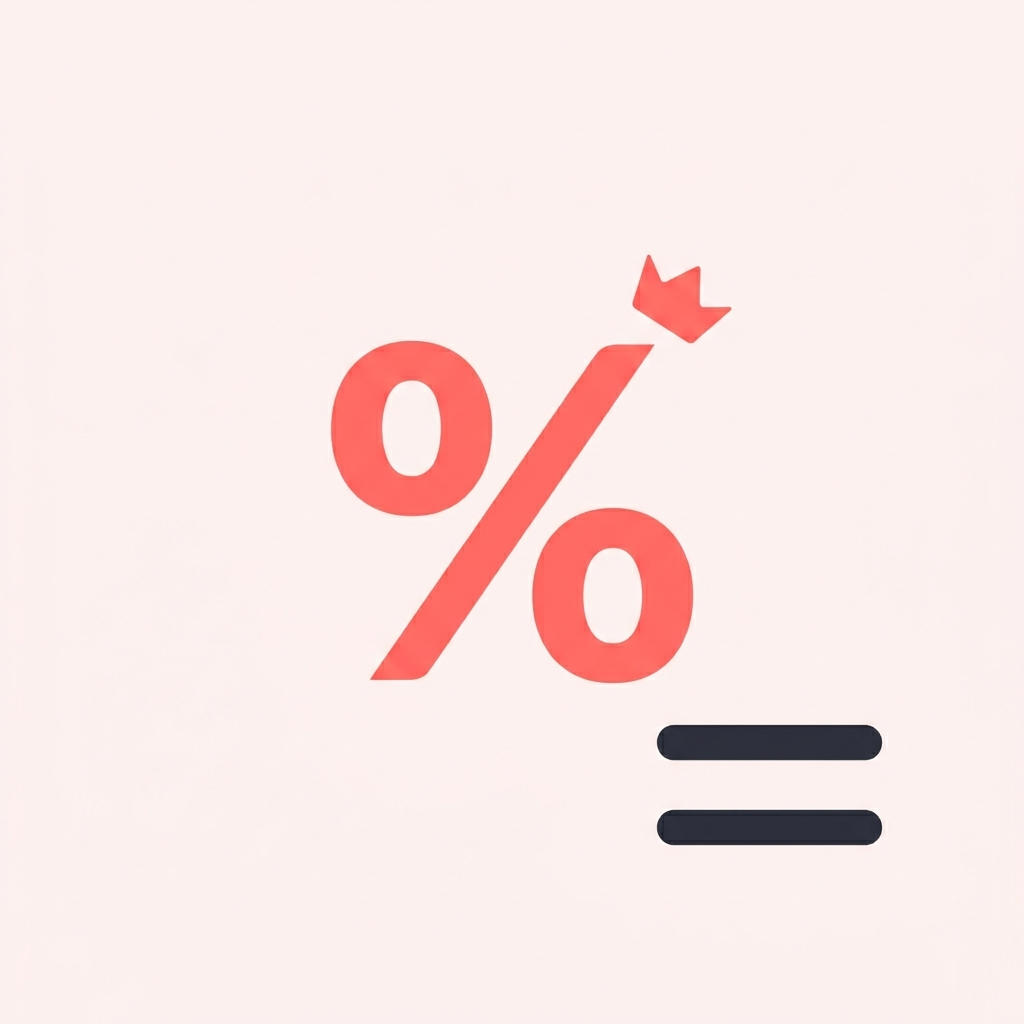
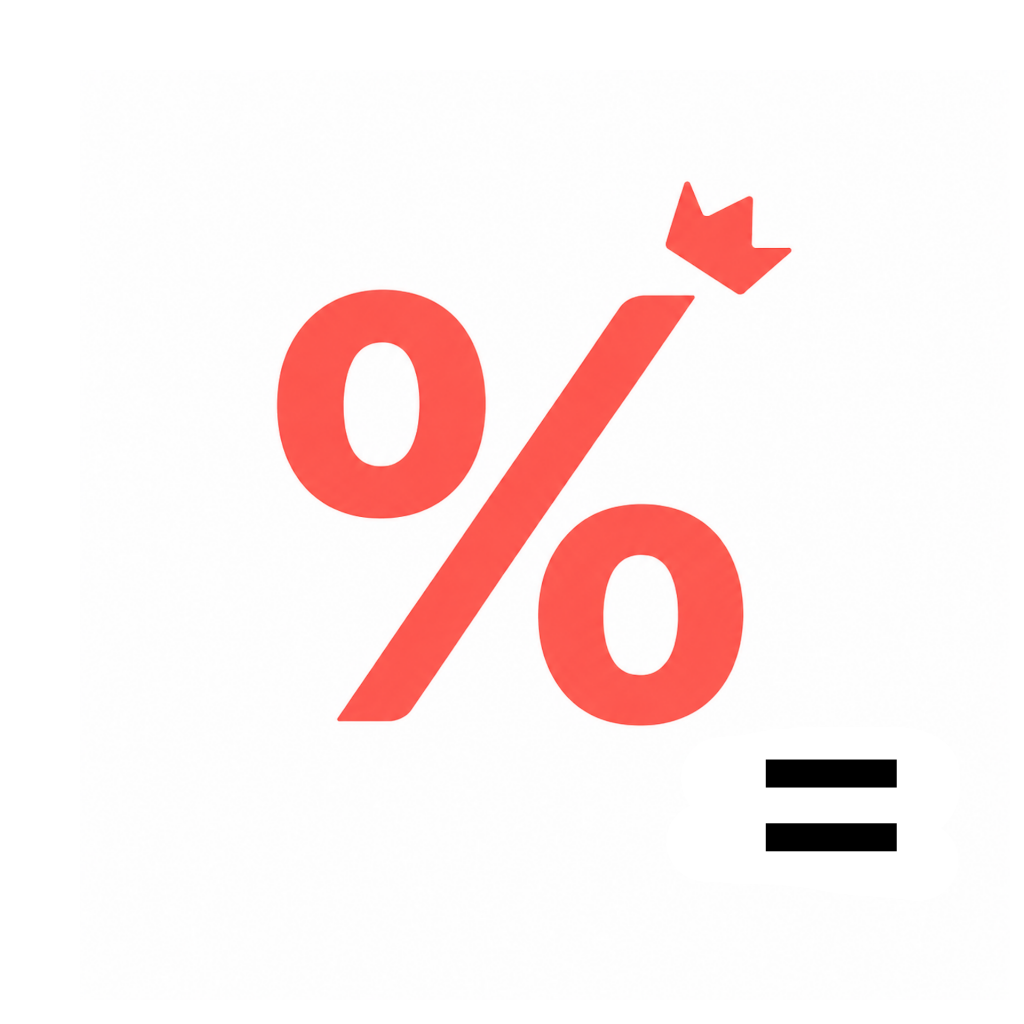
sync(ProfitFairy): align five-locale listing with App Store 9.1.4
Update name, subtitle, card description, and app icon for solo and small-team positioning across zh-tw, zh-cn, en, ja, and ko.

diff --git a/content/home.js b/content/home.js
@@ -26,10 +26,10 @@ module.exports = {
     stat3_txt: "大洲足跡",
     apps_title: "原創應用",
     sticker_title: "iMessage 貼圖",
-    pf_title: "ProfitFairy 成本毛利率利潤試算",
-    pf_sub: "售價與費用結構分析，賣家專用工具",
+    pf_title: "ProfitFairy 毛利率和定價計算機",
+    pf_sub: "成本、售價、折扣、平台費與淨利試算",
     pf_desc:
-      "輸入成本、售價或毛利率，立刻得到最終價格、毛利與毛利率。三欄試算自動連動，支援折扣、平台手續費、含稅與運費等進階參數。內建成本分析頁可產出可分享的毛利結構長圖，歷史紀錄完整保存與批次管理。依裝置地區自動採用熟悉的全球數字格式，涵蓋 12,345.67 等常見寫法。五語系介面，每一筆都算得清楚。",
+      "給一個人或兩三人小團隊的定價決策工具。報價前先看清真實毛利，把成本、售價、折扣、平台費、運費與稅務收進同一張全景圖。三欄聯動試算，支援正向與逆向定價。內建成本分析與高清長圖匯出，歷史紀錄完整保存。依裝置地區採用熟悉的數字格式，例如\u00A012,345.67。五語系介面，攤商、店面、接案與小團隊都能用。",
     ruby_title: "小主私密日記 · 老中醫月經養生週期手札",
     ruby_sub: "記錄每一天，溫柔看懂自己的節奏",
     ruby_desc:
@@ -107,10 +107,10 @@ module.exports = {
     stat3_txt: "大洲足迹",
     apps_title: "原创应用",
     sticker_title: "iMessage 贴图",
-    pf_title: "ProfitFairy 成本毛利率利润试算",
-    pf_sub: "售价与费用结构分析，卖家专用工具",
+    pf_title: "ProfitFairy 毛利率和定价计算器",
+    pf_sub: "成本、售价、折扣、平台费与净利润试算",
     pf_desc:
-      "输入成本、售价或毛利率，立刻得到最终价格、毛利与毛利率。三栏试算自动联动，支持折扣、平台手续费、含税与运费等进阶参数。内置成本分析页可产出可分享的毛利结构长图，历史记录完整保存与批次管理。依装置地区自动采用熟悉的全球数字格式，涵盖 12,345.67 等常见写法。五语系界面，每一笔都算得清楚。",
+      "给一个人或两三个人小团队的定价决策工具。报价前先看清真实毛利，把成本、售价、折扣、平台费、运费与税务收进同一张全景图。三栏联动试算，支持正向与逆向定价。内置成本分析与高清长图导出，历史记录完整保存。依装置地区采用熟悉的数字格式，例如\u00A012,345.67。五语系界面，摊商、店面、接案与小团队都能用。",
     ruby_title: "小主私密日记 · 老中医月经养生周期手札",
     ruby_sub: "记录每一天，温柔看懂自己的节奏",
     ruby_desc:
@@ -188,10 +188,10 @@ module.exports = {
     stat3_txt: "Continents",
     apps_title: "Original Apps",
     sticker_title: "iMessage Stickers",
-    pf_title: "ProfitFairy Cost Margin Calc",
-    pf_sub: "Price and fee structure tool",
+    pf_title: "ProfitFairy Margin Calculator",
+    pf_sub: "Cost, Price, Fees and Profit",
     pf_desc:
-      "Enter cost, sale price, or target margin to see final price, profit, and margin instantly. Three linked fields with advanced options for discounts, platform fees, tax, and shipping. Built-in cost analysis exports shareable breakdown images; full history with sort, filter, and batch actions. Follows your device region for global number formats such as 12,345.67. Available in five languages.",
+      "A pricing decision tool for one person or a tiny team of two or three. See real margin before you quote, with cost, price, discounts, platform fees, shipping, and tax in one picture. Three linked fields support forward and reverse pricing. Cost analysis exports shareable long images, with full history saved. Follows your device region for formats such as\u00A012,345.67. Five languages. Built for stalls, storefronts, freelancers, and small teams.",
     ruby_title: "RubyDays · Classical Menstrual Wellness Journal",
     ruby_sub: "Record each day. Gently understand your rhythm.",
     ruby_desc:
@@ -269,10 +269,10 @@ module.exports = {
     stat3_txt: "大陸の足跡",
     apps_title: "オリジナルアプリ",
     sticker_title: "iMessage ステッカー",
-    pf_title: "ProfitFairy 原価粗利率利益試算",
-    pf_sub: "売価と費用構成の連動分析ツール",
+    pf_title: "ProfitFairy 粗利率と価格設定計算機",
+    pf_sub: "原価、販売価格、割引、手数料、純利益を計算",
     pf_desc:
-      "原価、販売価格、利益率のいずれかを入力するだけで、最終価格、粗利、利益率を即表示。3項目連動計算と割引、手数料、税、送料などの高度な設定に対応。原価分析ページから共有可能な粗利内訳長画像を出力。履歴の保存、並べ替え、一括管理も可能。端末の地域設定に合わせた数字表記に対応し、12,345.67 などの表記もそのまま利用できます。5言語対応。",
+      "ひとり起業や少人数チームのための定価意思決定ツール。見積前に本当の粗利を確認し、原価、販売価格、割引、手数料、送料、税金を一つの全景図にまとめます。3項目連動で順方向と逆算に対応。原価分析と高精細な縦長画像の書き出し、履歴保存も可能。端末の地域設定に合わせた数字表記に対応し、例えば\u00A012,345.67。5言語対応。屋台、店舗、フリーランス、小規模チーム向け。",
     ruby_title: "小主私密日記 · 古典養生の月経周期手帳",
     ruby_sub: "毎日を記録し、自分のリズムをやさしく読み解く",
     ruby_desc:
@@ -350,10 +350,10 @@ module.exports = {
     stat3_txt: "대륙 발자취",
     apps_title: "오리지널 앱",
     sticker_title: "iMessage 스티커",
-    pf_title: "ProfitFairy 원가마진수익 분석기",
-    pf_sub: "판매가와 비용 구조 연동 분석",
+    pf_title: "ProfitFairy 마진율 및 가격 계산기",
+    pf_sub: "원가, 판매가, 할인, 수수료, 순이익 계산",
     pf_desc:
-      "원가, 판매가, 목표 마진 중 하나만 입력하면 최종 가격, 이익, 이익률을 즉시 확인할 수 있습니다. 3항목 연동 계산과 할인, 수수료, 세금, 배송비 등 고급 옵션을 지원합니다. 원가 분석 페이지에서 공유 가능한 마진 내역 긴 이미지를 출력하고, 기록 저장과 일괄 관리도 가능합니다. 기기 지역 설정에 맞는 숫자 표기를 지원하며 12,345.67 같은 형식도 그대로 사용할 수 있습니다. 5개 언어 지원.",
+      "1인 창업자와 2~3명 소규모 팀을 위한 가격 결정 도구입니다. 견적 전에 실제 마진을 확인하고, 원가, 판매가, 할인, 플랫폼 수수료, 배송비, 세금을 한눈에 모읍니다. 3항목 연동으로 정방향과 역산을 지원합니다. 원가 분석과 고화질 세로 이미지 내보내기, 기록 저장도 가능합니다. 기기 지역에 맞는 숫자 표기를 지원하며 예를 들어\u00A012,345.67. 5개 언어. 노점, 매장, 프리랜서, 소규모 팀에 적합합니다.",
     ruby_title: "小主私密日記 · 전통 양생 생리 주기 수첩",
     ruby_sub: "매일을 기록하고, 나만의 리듬을 부드럽게 읽어가세요",
     ruby_desc:

diff --git a/ko/index.html b/ko/index.html
@@ -435,7 +435,7 @@ footer { text-align: center; padding: 24px 0 40px; font-size: 0.7rem; color: #6a
             <h2>오리지널 앱</h2>
         </div>
         <div class="grid-3">
-            <div class="work-card"><div class="card-media"><img class="app-icon" src="/images/ProfitFairy_icon.png" alt="ProfitFairy"></div><div class="card-info"><div class="work-title">ProfitFairy 원가마진수익 분석기</div><div class="work-sub">판매가와 비용 구조 연동 분석</div><div class="work-desc">원가, 판매가, 목표 마진 중 하나만 입력하면 최종 가격, 이익, 이익률을 즉시 확인할 수 있습니다. 3항목 연동 계산과 할인, 수수료, 세금, 배송비 등 고급 옵션을 지원합니다. 원가 분석 페이지에서 공유 가능한 마진 내역 긴 이미지를 출력하고, 기록 저장과 일괄 관리도 가능합니다. 기기 지역 설정에 맞는 숫자 표기를 지원하며 12,345.67 같은 형식도 그대로 사용할 수 있습니다. 5개 언어 지원.</div><div class="store-badge"><a href="https://apps.apple.com/app/id6740332215" target="_blank" rel="noopener"><img src="/images/Download_on_the_App_Store_Badge.png" alt="App Store"></a></div></div></div>
+            <div class="work-card"><div class="card-media"><img class="app-icon" src="/images/ProfitFairy_icon.png" alt="ProfitFairy"></div><div class="card-info"><div class="work-title">ProfitFairy 마진율 및 가격 계산기</div><div class="work-sub">원가, 판매가, 할인, 수수료, 순이익 계산</div><div class="work-desc">1인 창업자와 2~3명 소규모 팀을 위한 가격 결정 도구입니다. 견적 전에 실제 마진을 확인하고, 원가, 판매가, 할인, 플랫폼 수수료, 배송비, 세금을 한눈에 모읍니다. 3항목 연동으로 정방향과 역산을 지원합니다. 원가 분석과 고화질 세로 이미지 내보내기, 기록 저장도 가능합니다. 기기 지역에 맞는 숫자 표기를 지원하며 예를 들어 12,345.67. 5개 언어. 노점, 매장, 프리랜서, 소규모 팀에 적합합니다.</div><div class="store-badge"><a href="https://apps.apple.com/app/id6740332215" target="_blank" rel="noopener"><img src="/images/Download_on_the_App_Store_Badge.png" alt="App Store"></a></div></div></div>
             <div class="work-card"><div class="card-media"><img class="app-icon" src="/images/RubyDays_icon.png" alt="RubyDays"></div><div class="card-info"><div class="work-title">小主私密日記 · 전통 양생 생리 주기 수첩</div><div class="work-sub">매일을 기록하고, 나만의 리듬을 부드럽게 읽어가세요</div><div class="work-desc">주기와 임신 준비 달력, 잠금 가능한手札, 주기 단계에 맞춘 양생각 고전 발췌. 생리 기록, 배란과 안전 기간 추정, 차트와 알림으로 계획을 돕습니다. 양생각은 『황제내경』『본초강목』『부청주여과』『침구갑을경』의 요지를 담아, 단계별로 일상, 고전 식문, 마음의 읽을거리를 정리합니다. 데이터는 기기 저장, iCloud 비공개 동기화 선택 가능. 글과 「순간」 사진, Face ID 보호. 고전 발췌는 일상 참고용. 광고 없음.</div><div class="store-badge"><a href="https://apps.apple.com/app/id6752606069" target="_blank" rel="noopener"><img src="/images/Download_on_the_App_Store_Badge.png" alt="App Store"></a></div></div></div>
             <div class="work-card"><div class="card-media"><img class="app-icon" src="/images/AIOS_icon.png?v=9cfe6de2" alt="AIOS Sea"></div><div class="card-info"><div class="work-title">AIOS Sea</div><div class="work-sub">조수를 합치고 여신을 깨우세요</div><div class="work-desc">AIOS Sea를 항해하며 조수 표식을 합치고, 37명의 여신을 깨우며 심연의 기억을 되찾으세요. 클래식 머지, 심연의 기억 미니게임, 여신 법전 도감 수집의 세 가지 입구. 바다 테마의 힐링 비주얼로 짧은 휴식에 적합합니다. Game Center 업적과 일일 퀘스트, 5개 언어 지원으로 지속 업데이트.</div><div class="store-badge"><a href="https://apps.apple.com/app/id6745821288" target="_blank" rel="noopener"><img src="/images/Download_on_the_App_Store_Badge.png" alt="App Store"></a></div></div></div>
         </div>

diff --git a/ja/index.html b/ja/index.html
@@ -435,7 +435,7 @@ footer { text-align: center; padding: 24px 0 40px; font-size: 0.7rem; color: #6a
             <h2>オリジナルアプリ</h2>
         </div>
         <div class="grid-3">
-            <div class="work-card"><div class="card-media"><img class="app-icon" src="/images/ProfitFairy_icon.png" alt="ProfitFairy"></div><div class="card-info"><div class="work-title">ProfitFairy 原価粗利率利益試算</div><div class="work-sub">売価と費用構成の連動分析ツール</div><div class="work-desc">原価、販売価格、利益率のいずれかを入力するだけで、最終価格、粗利、利益率を即表示。3項目連動計算と割引、手数料、税、送料などの高度な設定に対応。原価分析ページから共有可能な粗利内訳長画像を出力。履歴の保存、並べ替え、一括管理も可能。端末の地域設定に合わせた数字表記に対応し、12,345.67 などの表記もそのまま利用できます。5言語対応。</div><div class="store-badge"><a href="https://apps.apple.com/app/id6740332215" target="_blank" rel="noopener"><img src="/images/Download_on_the_App_Store_Badge.png" alt="App Store"></a></div></div></div>
+            <div class="work-card"><div class="card-media"><img class="app-icon" src="/images/ProfitFairy_icon.png" alt="ProfitFairy"></div><div class="card-info"><div class="work-title">ProfitFairy 粗利率と価格設定計算機</div><div class="work-sub">原価、販売価格、割引、手数料、純利益を計算</div><div class="work-desc">ひとり起業や少人数チームのための定価意思決定ツール。見積前に本当の粗利を確認し、原価、販売価格、割引、手数料、送料、税金を一つの全景図にまとめます。3項目連動で順方向と逆算に対応。原価分析と高精細な縦長画像の書き出し、履歴保存も可能。端末の地域設定に合わせた数字表記に対応し、例えば 12,345.67。5言語対応。屋台、店舗、フリーランス、小規模チーム向け。</div><div class="store-badge"><a href="https://apps.apple.com/app/id6740332215" target="_blank" rel="noopener"><img src="/images/Download_on_the_App_Store_Badge.png" alt="App Store"></a></div></div></div>
             <div class="work-card"><div class="card-media"><img class="app-icon" src="/images/RubyDays_icon.png" alt="RubyDays"></div><div class="card-info"><div class="work-title">小主私密日記 · 古典養生の月経周期手帳</div><div class="work-sub">毎日を記録し、自分のリズムをやさしく読み解く</div><div class="work-desc">周期と妊活カレンダー、ロック可能な手札、周期段階に合わせた養生閣の典蔵。生理記録、排卵と安全期の推定、グラフとリマインダーで計画をサポート。養生閣は『黄帝内経』『本草綱目』『傅青主女科』『鍼灸甲乙経』の精要を融合し、起居、典籍的な食事、気持ちの読み物を段階ごとに整理。データは端末内保存、iCloud プライベート同期に対応。文字と「瞬間」写真、Face ID で保護。古籍の摘録は日常の参考用。広告なし。</div><div class="store-badge"><a href="https://apps.apple.com/app/id6752606069" target="_blank" rel="noopener"><img src="/images/Download_on_the_App_Store_Badge.png" alt="App Store"></a></div></div></div>
             <div class="work-card"><div class="card-media"><img class="app-icon" src="/images/AIOS_icon.png?v=9cfe6de2" alt="AIOS Sea"></div><div class="card-info"><div class="work-title">AIOS Sea</div><div class="work-sub">潮を合わせ女神を醒めよう</div><div class="work-desc">AIOS Sea を渡り、潮印を合わせ、37 柱の女神を醒め、深淵の記憶を取り戻せ。クラシックなマージ、深淵の記憶ミニゲーム、女神法典の図鑑収集の3つの入口。海をテーマにした癒しのビジュアルでスキマ時間に最適。Game Center 実績とデイリークエスト、5言語対応で継続的に更新。</div><div class="store-badge"><a href="https://apps.apple.com/app/id6745821288" target="_blank" rel="noopener"><img src="/images/Download_on_the_App_Store_Badge.png" alt="App Store"></a></div></div></div>
         </div>

diff --git a/zh-cn/index.html b/zh-cn/index.html
@@ -435,7 +435,7 @@ footer { text-align: center; padding: 24px 0 40px; font-size: 0.7rem; color: #6a
             <h2>原创应用</h2>
         </div>
         <div class="grid-3">
-            <div class="work-card"><div class="card-media"><img class="app-icon" src="/images/ProfitFairy_icon.png" alt="ProfitFairy"></div><div class="card-info"><div class="work-title">ProfitFairy 成本毛利率利润试算</div><div class="work-sub">售价与费用结构分析，卖家专用工具</div><div class="work-desc">输入成本、售价或毛利率，立刻得到最终价格、毛利与毛利率。三栏试算自动联动，支持折扣、平台手续费、含税与运费等进阶参数。内置成本分析页可产出可分享的毛利结构长图，历史记录完整保存与批次管理。依装置地区自动采用熟悉的全球数字格式，涵盖 12,345.67 等常见写法。五语系界面，每一笔都算得清楚。</div><div class="store-badge"><a href="https://apps.apple.com/app/id6740332215" target="_blank" rel="noopener"><img src="/images/Download_on_the_App_Store_Badge.png" alt="App Store"></a></div></div></div>
+            <div class="work-card"><div class="card-media"><img class="app-icon" src="/images/ProfitFairy_icon.png" alt="ProfitFairy"></div><div class="card-info"><div class="work-title">ProfitFairy 毛利率和定价计算器</div><div class="work-sub">成本、售价、折扣、平台费与净利润试算</div><div class="work-desc">给一个人或两三个人小团队的定价决策工具。报价前先看清真实毛利，把成本、售价、折扣、平台费、运费与税务收进同一张全景图。三栏联动试算，支持正向与逆向定价。内置成本分析与高清长图导出，历史记录完整保存。依装置地区采用熟悉的数字格式，例如 12,345.67。五语系界面，摊商、店面、接案与小团队都能用。</div><div class="store-badge"><a href="https://apps.apple.com/app/id6740332215" target="_blank" rel="noopener"><img src="/images/Download_on_the_App_Store_Badge.png" alt="App Store"></a></div></div></div>
             <div class="work-card"><div class="card-media"><img class="app-icon" src="/images/RubyDays_icon.png" alt="RubyDays"></div><div class="card-info"><div class="work-title">小主私密日记 · 老中医月经养生周期手札</div><div class="work-sub">记录每一天，温柔看懂自己的节奏</div><div class="work-desc">周期与备孕月历、可上锁手札，以及依周期阶段呈现的养生阁典藏。记录经期、推算排卵与安全期，图表与提醒助你从容规划。养生阁融汇《黄帝内经》《本草纲目》《傅青主女科》《针灸甲乙经》精要，依经期阶段整理起居、典籍饮食、情绪与日常读物。资料存于本机，可选 iCloud 私密同步。文字搭配瞬间照片，Face ID 守护个人内容。古籍摘录仅供日常阅读参考。全程无广告。</div><div class="store-badge"><a href="https://apps.apple.com/app/id6752606069" target="_blank" rel="noopener"><img src="/images/Download_on_the_App_Store_Badge.png" alt="App Store"></a></div></div></div>
             <div class="work-card"><div class="card-media"><img class="app-icon" src="/images/AIOS_icon.png?v=9cfe6de2" alt="艾奥斯海"></div><div class="card-info"><div class="work-title">艾奥斯海</div><div class="work-sub">合并潮印，唤醒女神</div><div class="work-desc">在艾奥斯海乘风启航。滑动合并潮印，唤醒三十七位女神，打捞深渊记忆。三大入口涵盖经典合并关卡、深渊记忆轻松小游戏，以及女神法典图鉴收集。海洋主题视觉与治愈氛围，适合碎片时间。Game Center 成就与每日试炼，五语系界面持续更新。</div><div class="store-badge"><a href="https://apps.apple.com/app/id6745821288" target="_blank" rel="noopener"><img src="/images/Download_on_the_App_Store_Badge.png" alt="App Store"></a></div></div></div>
         </div>

diff --git a/zh-tw/index.html b/zh-tw/index.html
@@ -435,7 +435,7 @@ footer { text-align: center; padding: 24px 0 40px; font-size: 0.7rem; color: #6a
             <h2>原創應用</h2>
         </div>
         <div class="grid-3">
-            <div class="work-card"><div class="card-media"><img class="app-icon" src="/images/ProfitFairy_icon.png" alt="ProfitFairy"></div><div class="card-info"><div class="work-title">ProfitFairy 成本毛利率利潤試算</div><div class="work-sub">售價與費用結構分析，賣家專用工具</div><div class="work-desc">輸入成本、售價或毛利率，立刻得到最終價格、毛利與毛利率。三欄試算自動連動，支援折扣、平台手續費、含稅與運費等進階參數。內建成本分析頁可產出可分享的毛利結構長圖，歷史紀錄完整保存與批次管理。依裝置地區自動採用熟悉的全球數字格式，涵蓋 12,345.67 等常見寫法。五語系介面，每一筆都算得清楚。</div><div class="store-badge"><a href="https://apps.apple.com/app/id6740332215" target="_blank" rel="noopener"><img src="/images/Download_on_the_App_Store_Badge.png" alt="App Store"></a></div></div></div>
+            <div class="work-card"><div class="card-media"><img class="app-icon" src="/images/ProfitFairy_icon.png" alt="ProfitFairy"></div><div class="card-info"><div class="work-title">ProfitFairy 毛利率和定價計算機</div><div class="work-sub">成本、售價、折扣、平台費與淨利試算</div><div class="work-desc">給一個人或兩三人小團隊的定價決策工具。報價前先看清真實毛利，把成本、售價、折扣、平台費、運費與稅務收進同一張全景圖。三欄聯動試算，支援正向與逆向定價。內建成本分析與高清長圖匯出，歷史紀錄完整保存。依裝置地區採用熟悉的數字格式，例如 12,345.67。五語系介面，攤商、店面、接案與小團隊都能用。</div><div class="store-badge"><a href="https://apps.apple.com/app/id6740332215" target="_blank" rel="noopener"><img src="/images/Download_on_the_App_Store_Badge.png" alt="App Store"></a></div></div></div>
             <div class="work-card"><div class="card-media"><img class="app-icon" src="/images/RubyDays_icon.png" alt="RubyDays"></div><div class="card-info"><div class="work-title">小主私密日記 · 老中醫月經養生週期手札</div><div class="work-sub">記錄每一天，溫柔看懂自己的節奏</div><div class="work-desc">週期與備孕月曆、可上鎖手札，以及依週期階段呈現的養生閣典藏。記錄經期、推算排卵與安全期，圖表與提醒助你從容規劃。養生閣融匯《黃帝內經》《本草綱目》《傅青主女科》《針灸甲乙經》精要，依經期階段整理起居、典籍飲食、情緒與日常讀物。資料存於本機，可選 iCloud 私密同步。文字搭配瞬間照片，Face ID 守護個人內容。古籍摘錄僅供日常閱讀參考。全程無廣告。</div><div class="store-badge"><a href="https://apps.apple.com/app/id6752606069" target="_blank" rel="noopener"><img src="/images/Download_on_the_App_Store_Badge.png" alt="App Store"></a></div></div></div>
             <div class="work-card"><div class="card-media"><img class="app-icon" src="/images/AIOS_icon.png?v=9cfe6de2" alt="艾奧斯海"></div><div class="card-info"><div class="work-title">艾奧斯海</div><div class="work-sub">合併潮印，喚醒女神</div><div class="work-desc">在艾奧斯海乘風啟航。滑動合併潮印，喚醒三十七位女神，打撈深淵記憶。三大入口涵蓋經典合併關卡、深淵記憶輕鬆小遊戲，以及女神法典圖鑑收集。海洋主題視覺與療癒氛圍，適合碎片時間。Game Center 成就與每日試煉，五語系介面持續更新。</div><div class="store-badge"><a href="https://apps.apple.com/app/id6745821288" target="_blank" rel="noopener"><img src="/images/Download_on_the_App_Store_Badge.png" alt="App Store"></a></div></div></div>
         </div>

diff --git a/en/index.html b/en/index.html
@@ -435,7 +435,7 @@ That someone is you</div>
             <h2>Original Apps</h2>
         </div>
         <div class="grid-3">
-            <div class="work-card"><div class="card-media"><img class="app-icon" src="/images/ProfitFairy_icon.png" alt="ProfitFairy"></div><div class="card-info"><div class="work-title">ProfitFairy Cost Margin Calc</div><div class="work-sub">Price and fee structure tool</div><div class="work-desc">Enter cost, sale price, or target margin to see final price, profit, and margin instantly. Three linked fields with advanced options for discounts, platform fees, tax, and shipping. Built-in cost analysis exports shareable breakdown images; full history with sort, filter, and batch actions. Follows your device region for global number formats such as 12,345.67. Available in five languages.</div><div class="store-badge"><a href="https://apps.apple.com/app/id6740332215" target="_blank" rel="noopener"><img src="/images/Download_on_the_App_Store_Badge.png" alt="App Store"></a></div></div></div>
+            <div class="work-card"><div class="card-media"><img class="app-icon" src="/images/ProfitFairy_icon.png" alt="ProfitFairy"></div><div class="card-info"><div class="work-title">ProfitFairy Margin Calculator</div><div class="work-sub">Cost, Price, Fees and Profit</div><div class="work-desc">A pricing decision tool for one person or a tiny team of two or three. See real margin before you quote, with cost, price, discounts, platform fees, shipping, and tax in one picture. Three linked fields support forward and reverse pricing. Cost analysis exports shareable long images, with full history saved. Follows your device region for formats such as 12,345.67. Five languages. Built for stalls, storefronts, freelancers, and small teams.</div><div class="store-badge"><a href="https://apps.apple.com/app/id6740332215" target="_blank" rel="noopener"><img src="/images/Download_on_the_App_Store_Badge.png" alt="App Store"></a></div></div></div>
             <div class="work-card"><div class="card-media"><img class="app-icon" src="/images/RubyDays_icon.png" alt="RubyDays"></div><div class="card-info"><div class="work-title">RubyDays · Classical Menstrual Wellness Journal</div><div class="work-sub">Record each day. Gently understand your rhythm.</div><div class="work-desc">Cycle and fertility calendar, lockable diary, and the Wellness Pavilion with curated excerpts for each phase. Track periods, estimate ovulation, and plan with charts and reminders. The Pavilion draws on four classical texts, including seasonal living rhythms, herbal dietary notes, women's classical readings, and meridian literature. Data stays on device with optional private iCloud sync. Words with Moment photos, protected by Face ID. Excerpts are for daily reading reference only. Completely ad free.</div><div class="store-badge"><a href="https://apps.apple.com/app/id6752606069" target="_blank" rel="noopener"><img src="/images/Download_on_the_App_Store_Badge.png" alt="App Store"></a></div></div></div>
             <div class="work-card"><div class="card-media"><img class="app-icon" src="/images/AIOS_icon.png?v=9cfe6de2" alt="AIOS Sea"></div><div class="card-info"><div class="work-title">AIOS Sea</div><div class="work-sub">Merge tides, awaken goddesses</div><div class="work-desc">Set sail on AIOS Sea. Merge tide-marks, awaken thirty-seven goddesses, and recover memories from the abyss. Three gateways cover classic merge stages, Abyss Memories minigames, and the Goddess Codex collection. Ocean themed visuals with a calm mood for short sessions. Game Center achievements, daily trials, and five-language support with ongoing updates.</div><div class="store-badge"><a href="https://apps.apple.com/app/id6745821288" target="_blank" rel="noopener"><img src="/images/Download_on_the_App_Store_Badge.png" alt="App Store"></a></div></div></div>
         </div>
